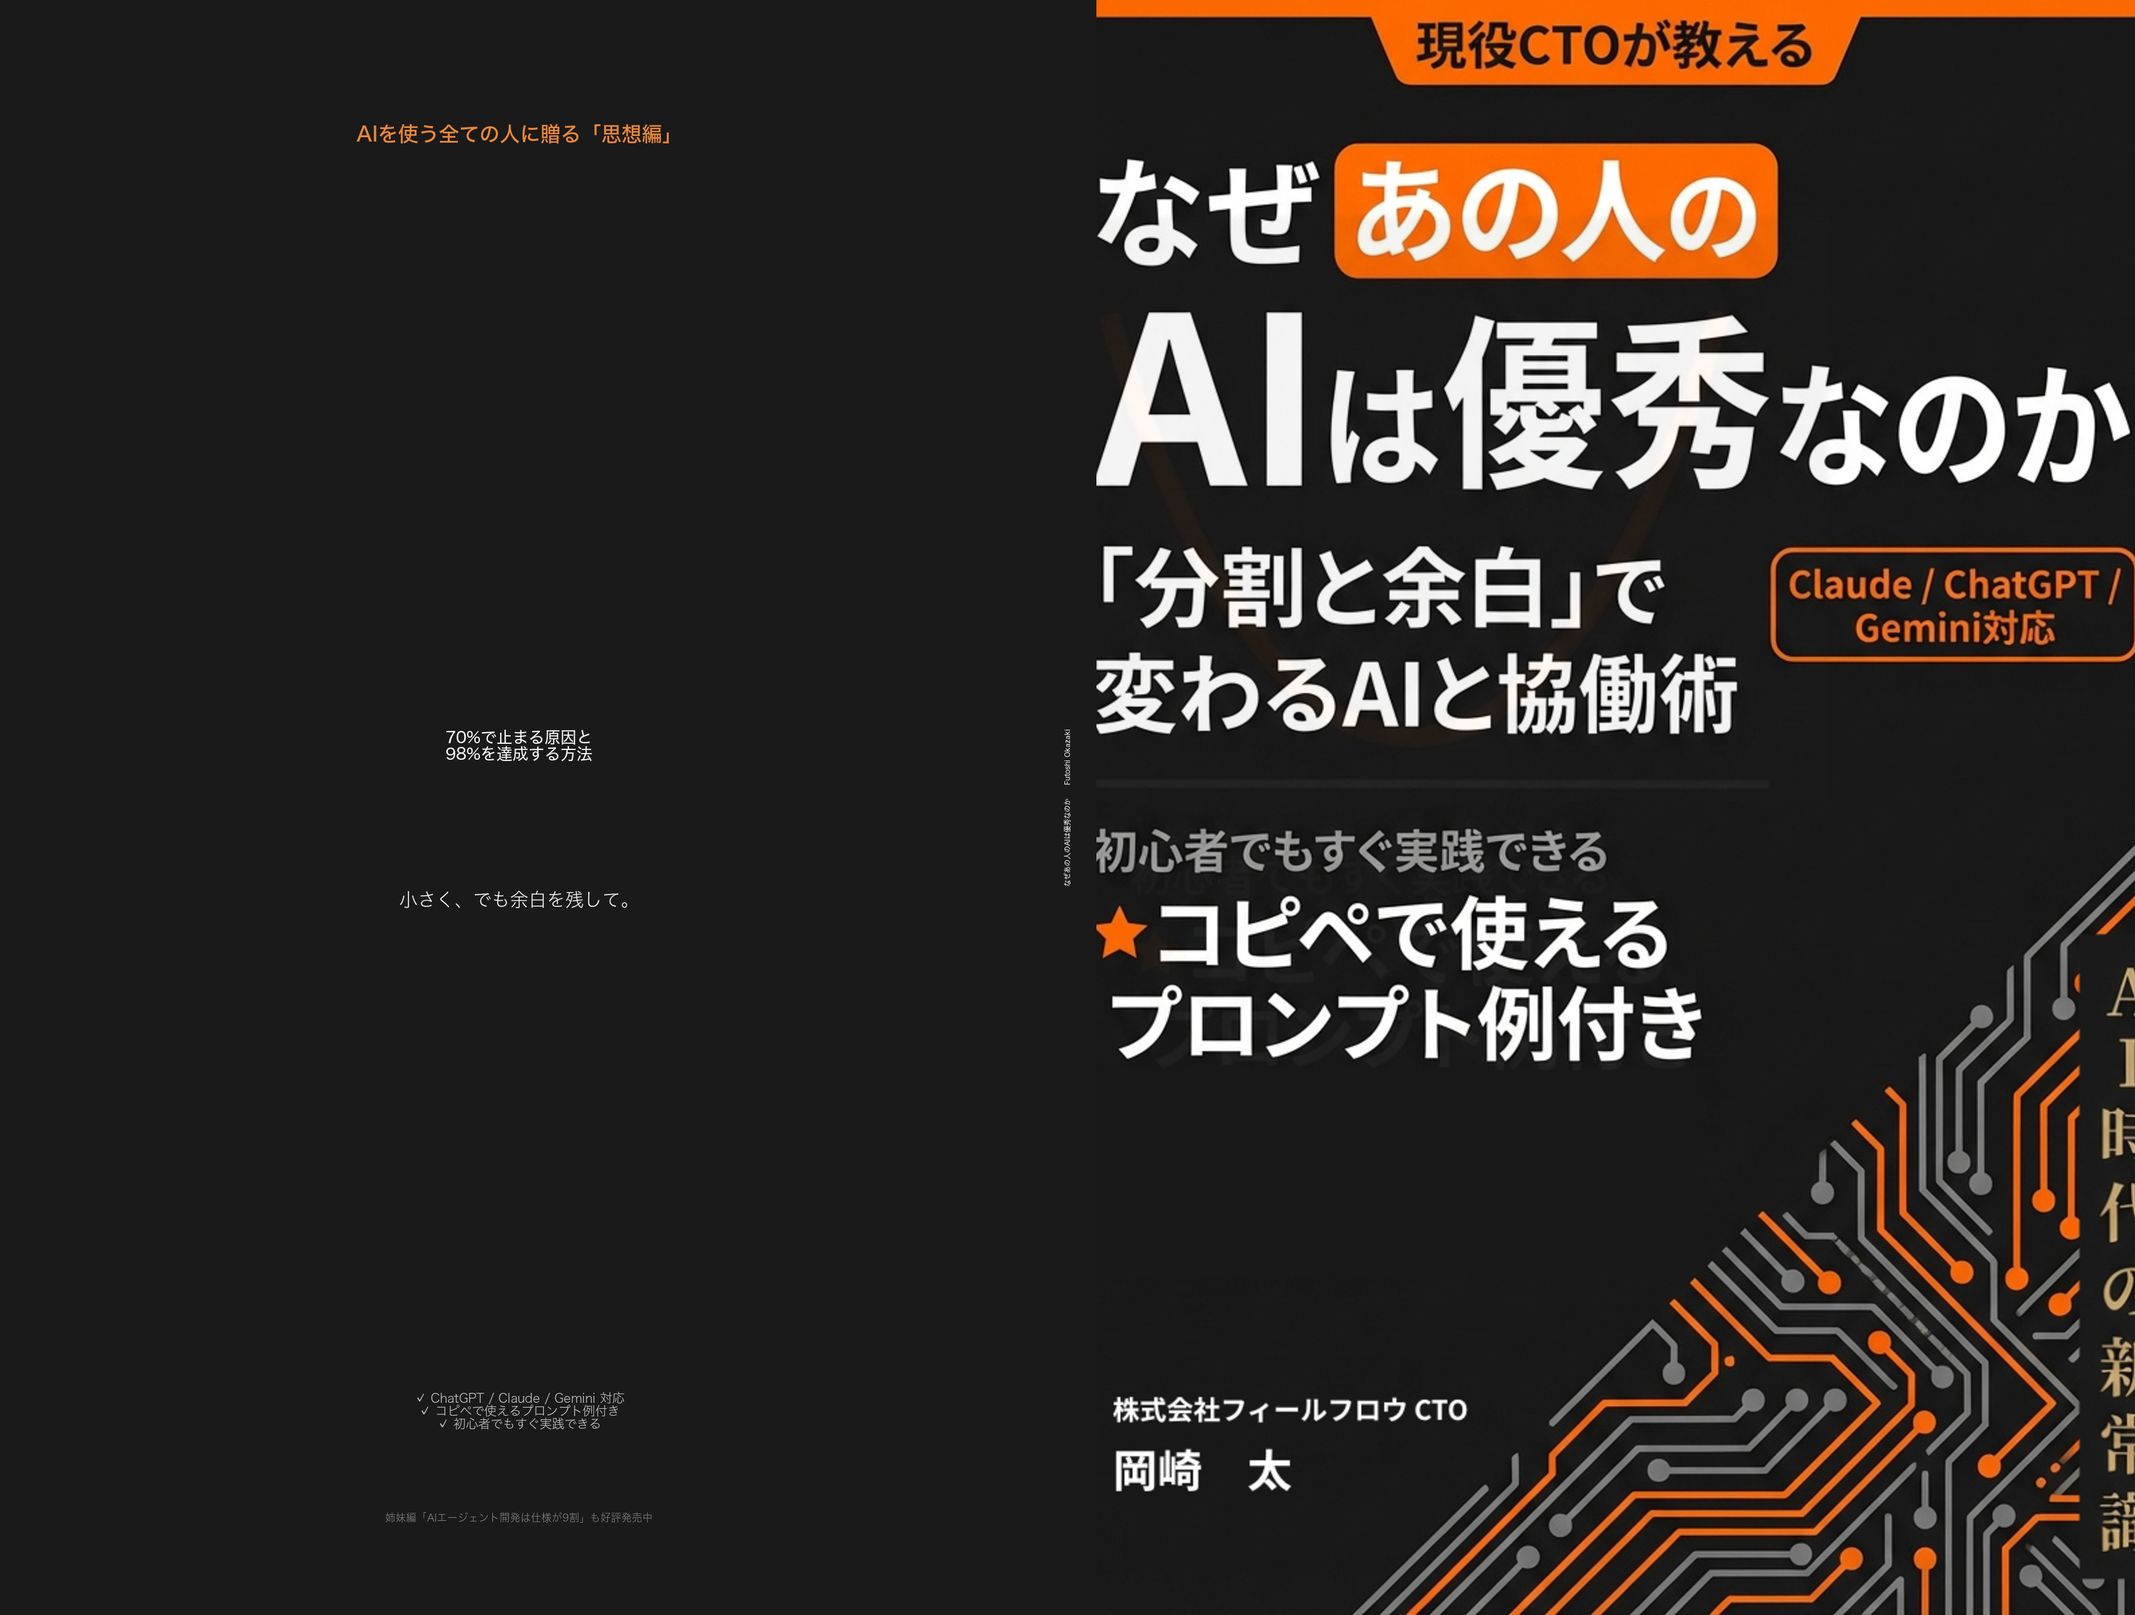
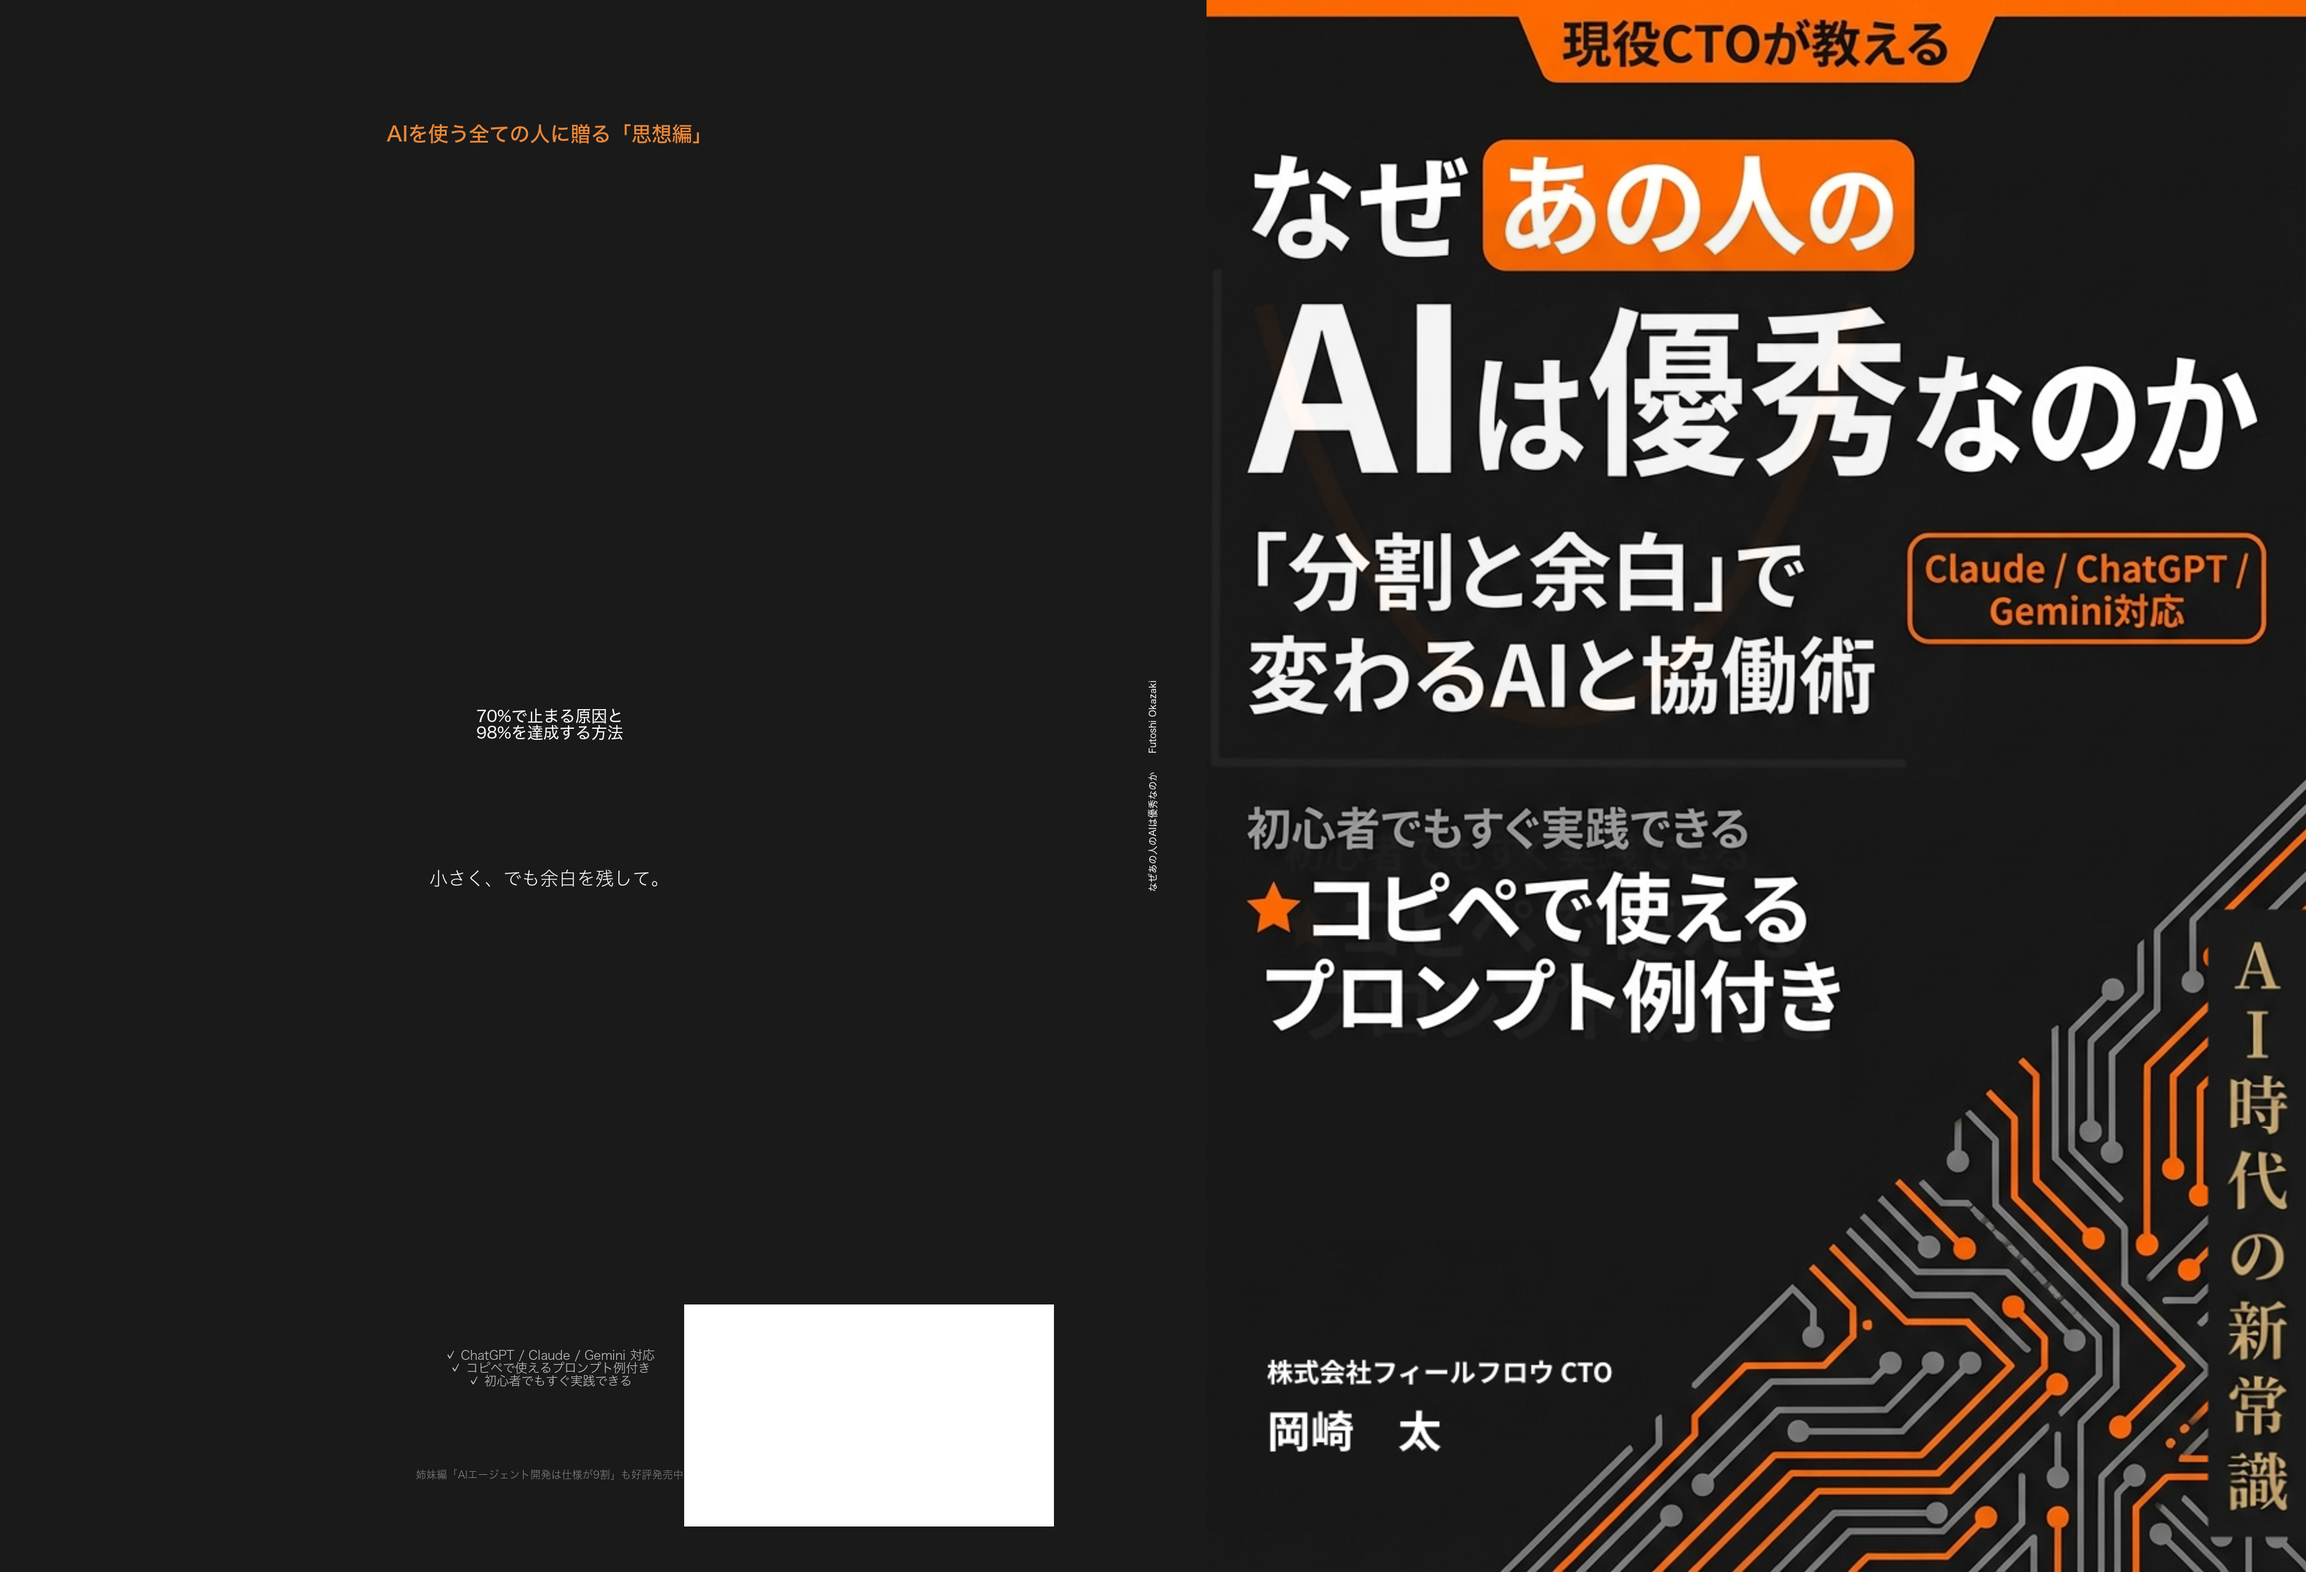
fix(book): #176 KDPペーパーバック判型を5.83x8.27インチに修正
- build-paperback-pdf.js: トリムサイズを5.83"x8.27"（A5）に変更
- build-paperback-cover.js: トリムサイズを5.83"x8.27"に変更
- build-paperback-cover.js: 裏表紙にバーコード領域（2"x1.2"）を追加
- 表紙画像を再生成

diff --git a/books/ai-small-is-accurate/build-paperback-cover.js b/books/ai-small-is-accurate/build-paperback-cover.js
@@ -19,9 +19,9 @@ const bookConfig = require('./book-config');
 
 // === 設定 ===
 const CONFIG = {
-  // 判型（トリムサイズ）- 5.5 x 8.5 インチ
-  trimWidth: 5.5,      // インチ
-  trimHeight: 8.5,     // インチ
+  // 判型（トリムサイズ）- 5.83 x 8.27 インチ（A5）
+  trimWidth: 5.83,     // インチ
+  trimHeight: 8.27,    // インチ
 
   // 裁ち落とし
   bleed: 0.125,        // インチ（各辺）
@@ -230,6 +230,18 @@ function createBackCoverImage(size, tempDir) {
     '-pointsize', '18',
     '-gravity', 'south',
     '-annotate', '+0+150', '姉妹編「AIエージェント開発は仕様が9割」も好評発売中',
+    backPath
+  ]);
+
+  // バーコード領域（KDP必須: 裏表紙右下に2" x 1.2"の白い領域）
+  // 位置: 右下から裁ち落とし分だけ内側
+  const barcodeWidth = inchToPixel(2);
+  const barcodeHeight = inchToPixel(1.2);
+  const barcodeMargin = inchToPixel(0.25); // 端からのマージン
+  runMagick([
+    backPath,
+    '-fill', 'white',
+    '-draw', `rectangle ${size.backWidthPx - barcodeWidth - barcodeMargin},${size.totalHeightPx - barcodeHeight - barcodeMargin} ${size.backWidthPx - barcodeMargin},${size.totalHeightPx - barcodeMargin}`,
     backPath
   ]);
 

diff --git a/books/ai-small-is-accurate/build-paperback-pdf.js b/books/ai-small-is-accurate/build-paperback-pdf.js
@@ -44,11 +44,11 @@ const partDirs = [
  */
 function createPaperbackCss() {
   // KDPペーパーバック用設定
-  // トリムサイズ: 5.5 x 8.5 インチ（139.7 x 215.9 mm）
+  // トリムサイズ: 5.83 x 8.27 インチ（148 x 210 mm = A5）
   // マージン: 外側 0.5インチ、内側（ノド）0.75インチ
   const css = `
 @page {
-  size: 5.5in 8.5in;
+  size: 5.83in 8.27in;
   margin: 0.5in 0.5in 0.5in 0.75in; /* 上 右 下 左（ノド側広め） */
 
   @bottom-center {
@@ -399,7 +399,7 @@ async function main() {
   console.log('='.repeat(60));
   console.log('');
   console.log('設定:');
-  console.log('  トリムサイズ: 5.5 x 8.5 インチ');
+  console.log('  トリムサイズ: 5.83 x 8.27 インチ（A5）');
   console.log('  マージン: 外側 0.5インチ、内側（ノド）0.75インチ');
   console.log('');
 
